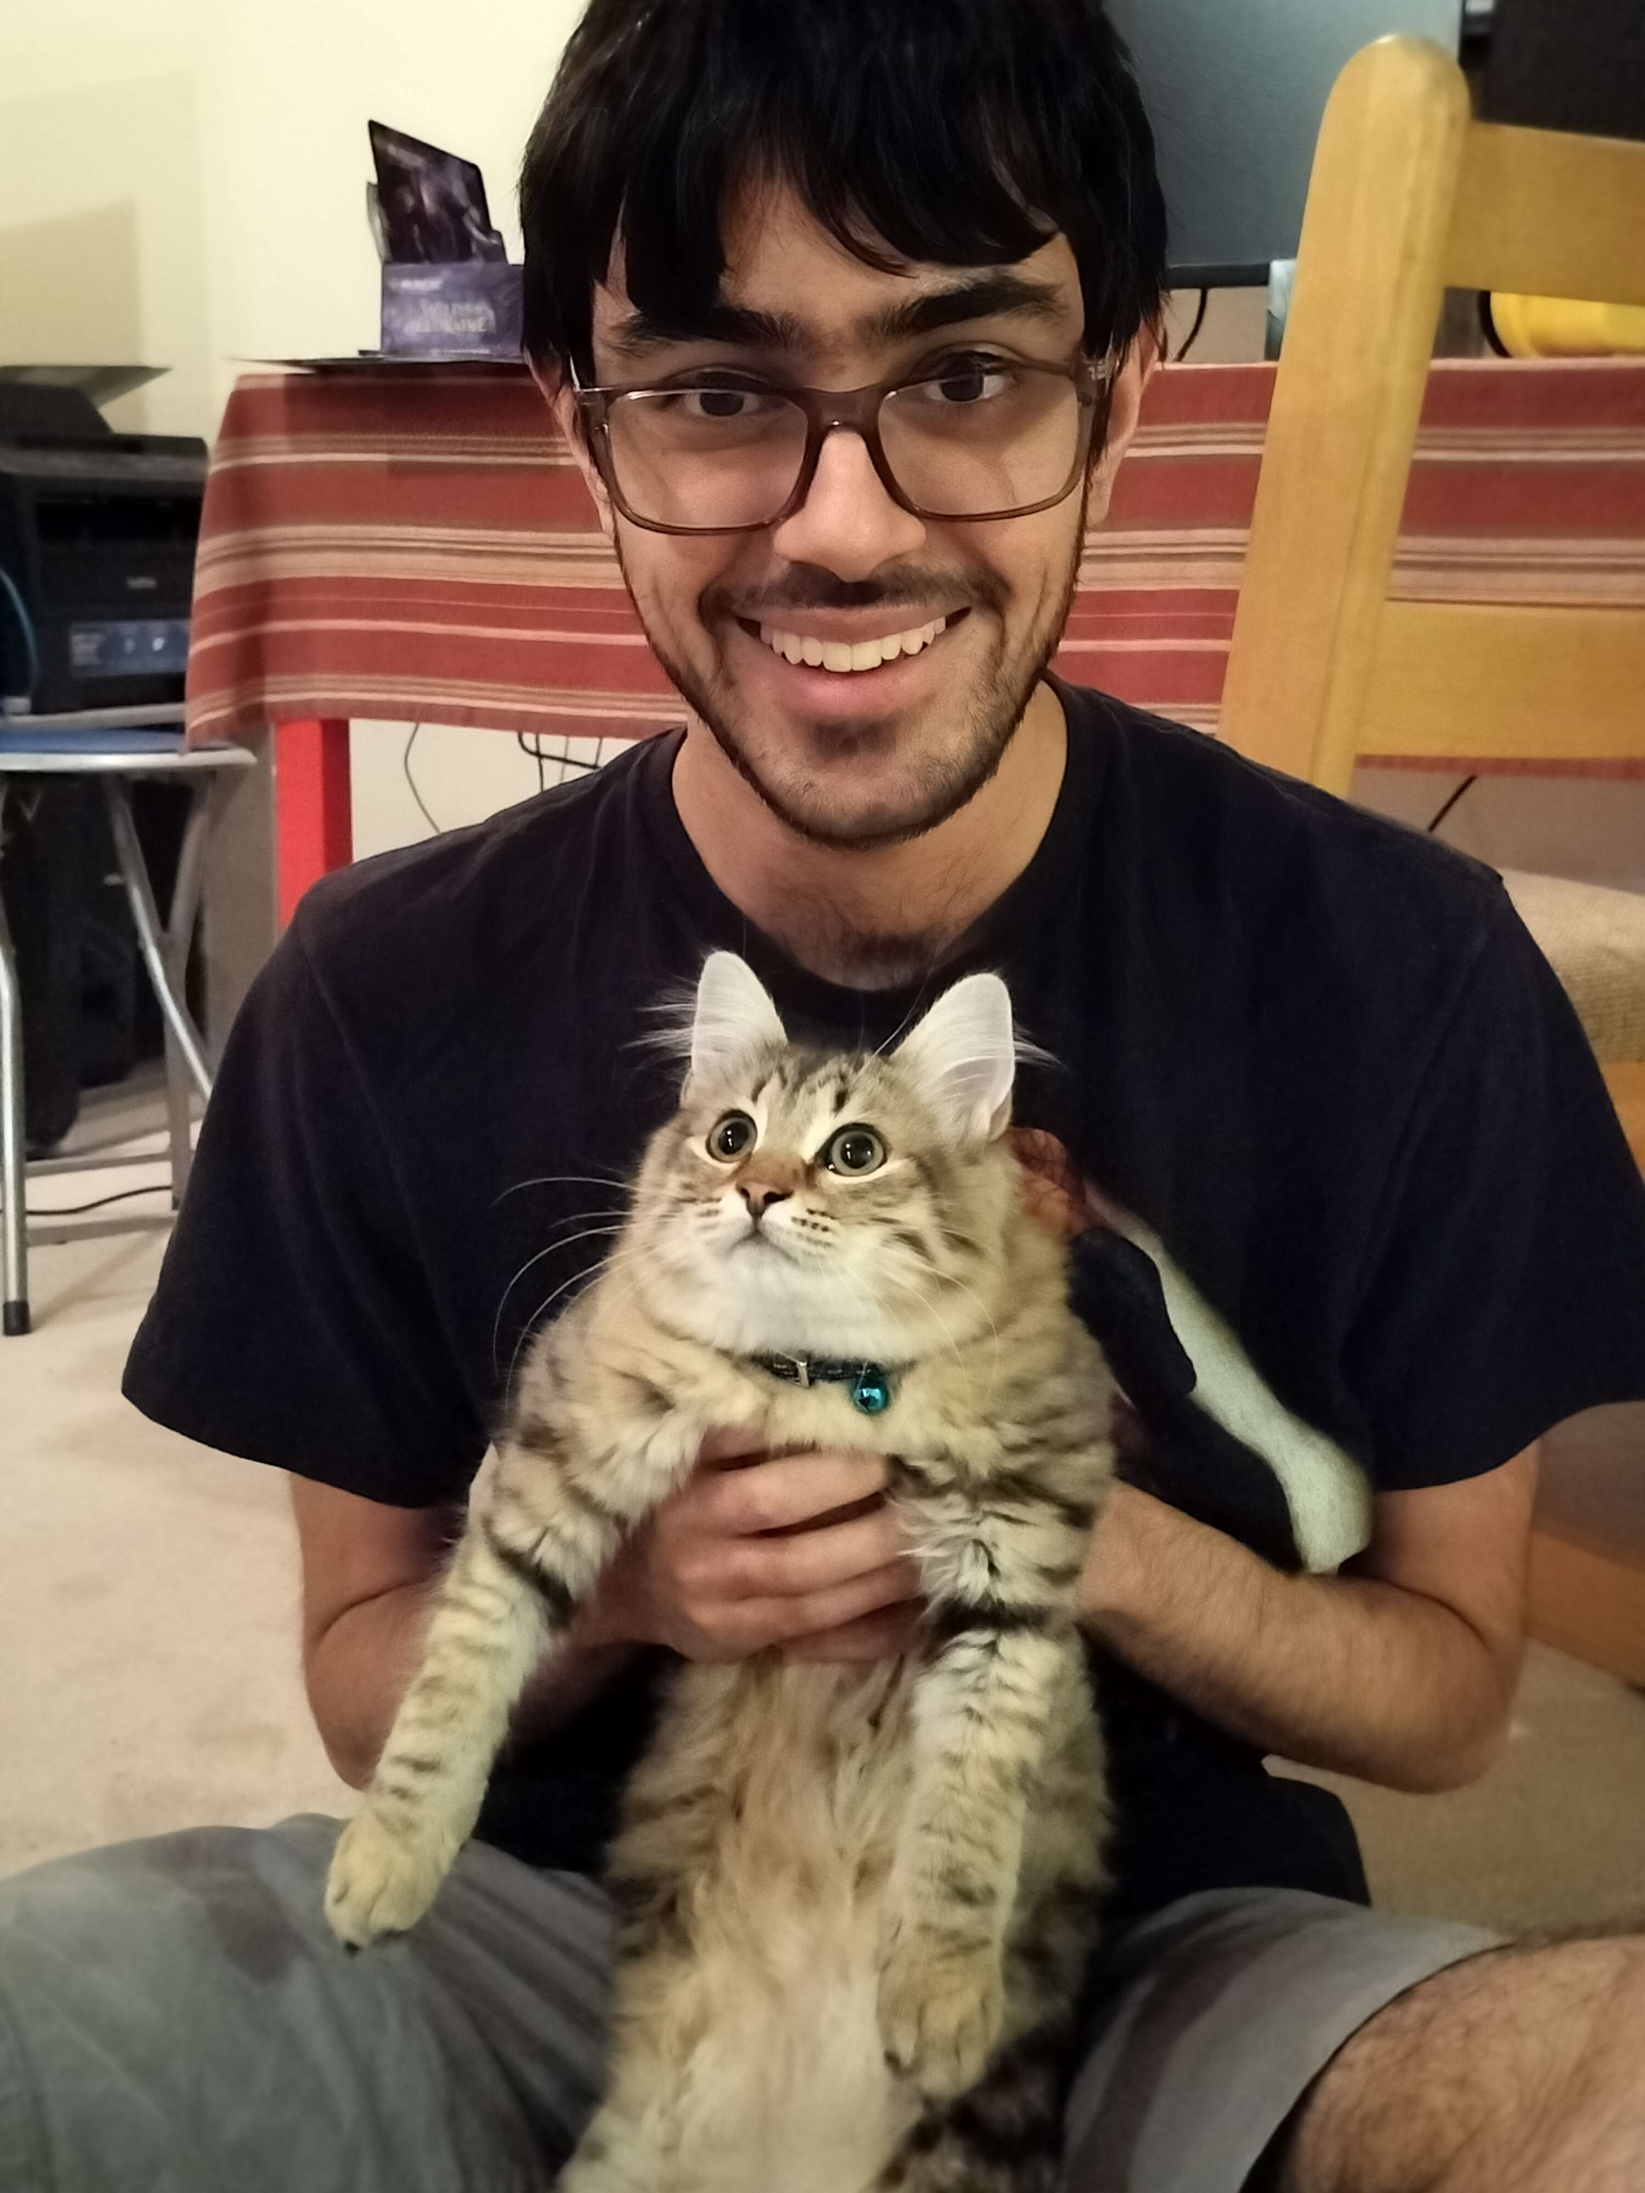
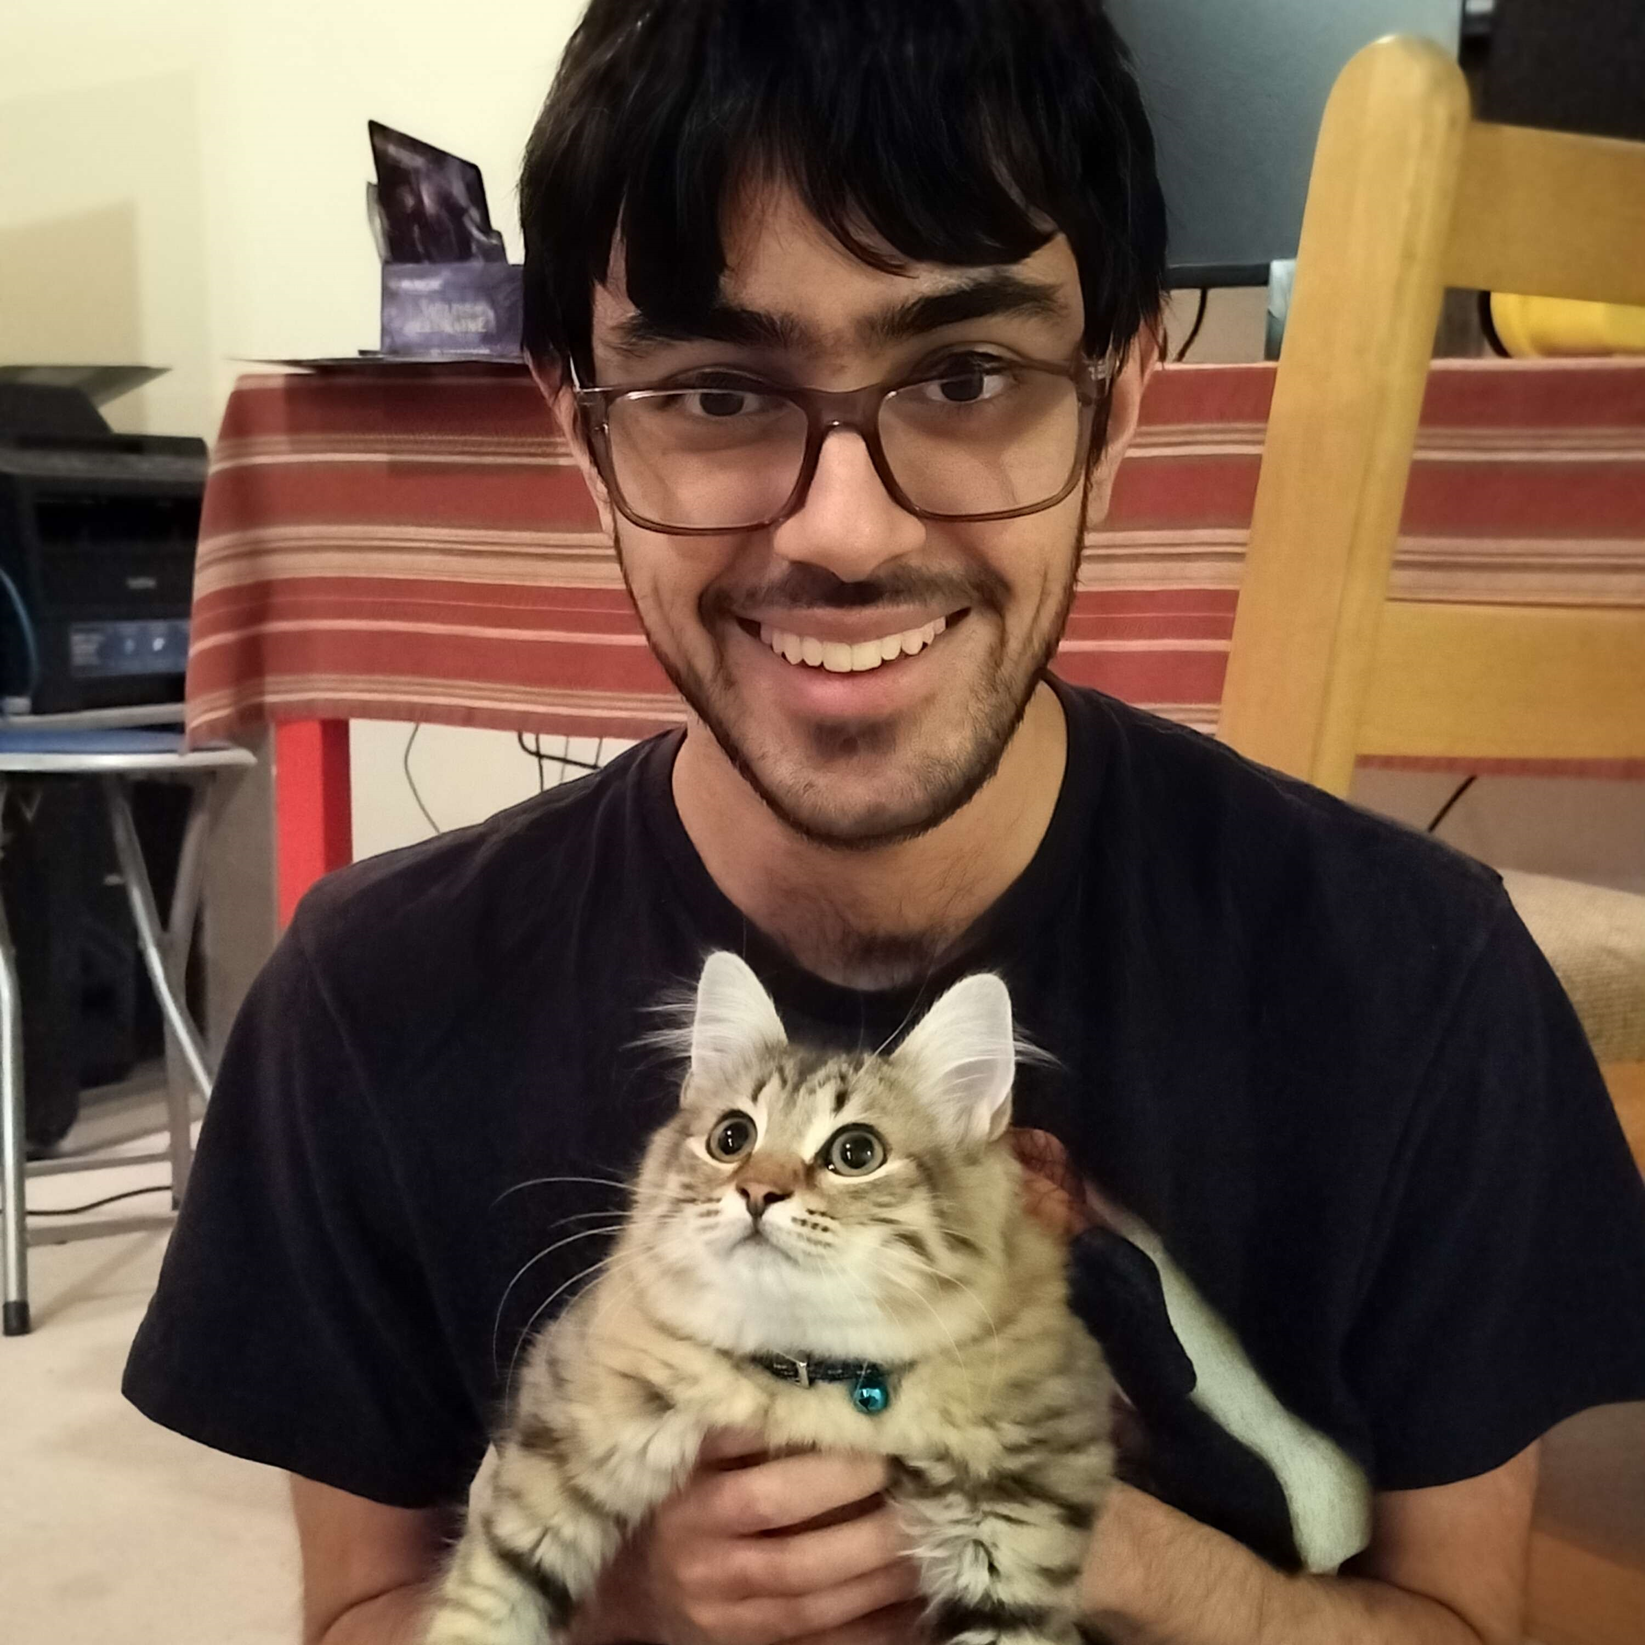
Profile picture added to MTG gamehead

diff --git a/scripts/execs/2023-2024.js b/scripts/execs/2023-2024.js
@@ -144,7 +144,7 @@ let execs = {
     },
     "Shaun Francis": {
         name: "Shaun Francis",
-        image: "../../../images/execs/placeholder.png",
+        image: "../../../images/execs/2023-2024/Shaun Francis.jpg",
         role: ["<span class='fw-bold'>Game Head</span> <br /> Magic the Gathering", "<span class='fw-bold'>Chef de jeu</span> <br /> Magic the Gathering"],
         prog: ["Computer Science", "Informatique"],
         year: ["3rd Year", "3e année"],
